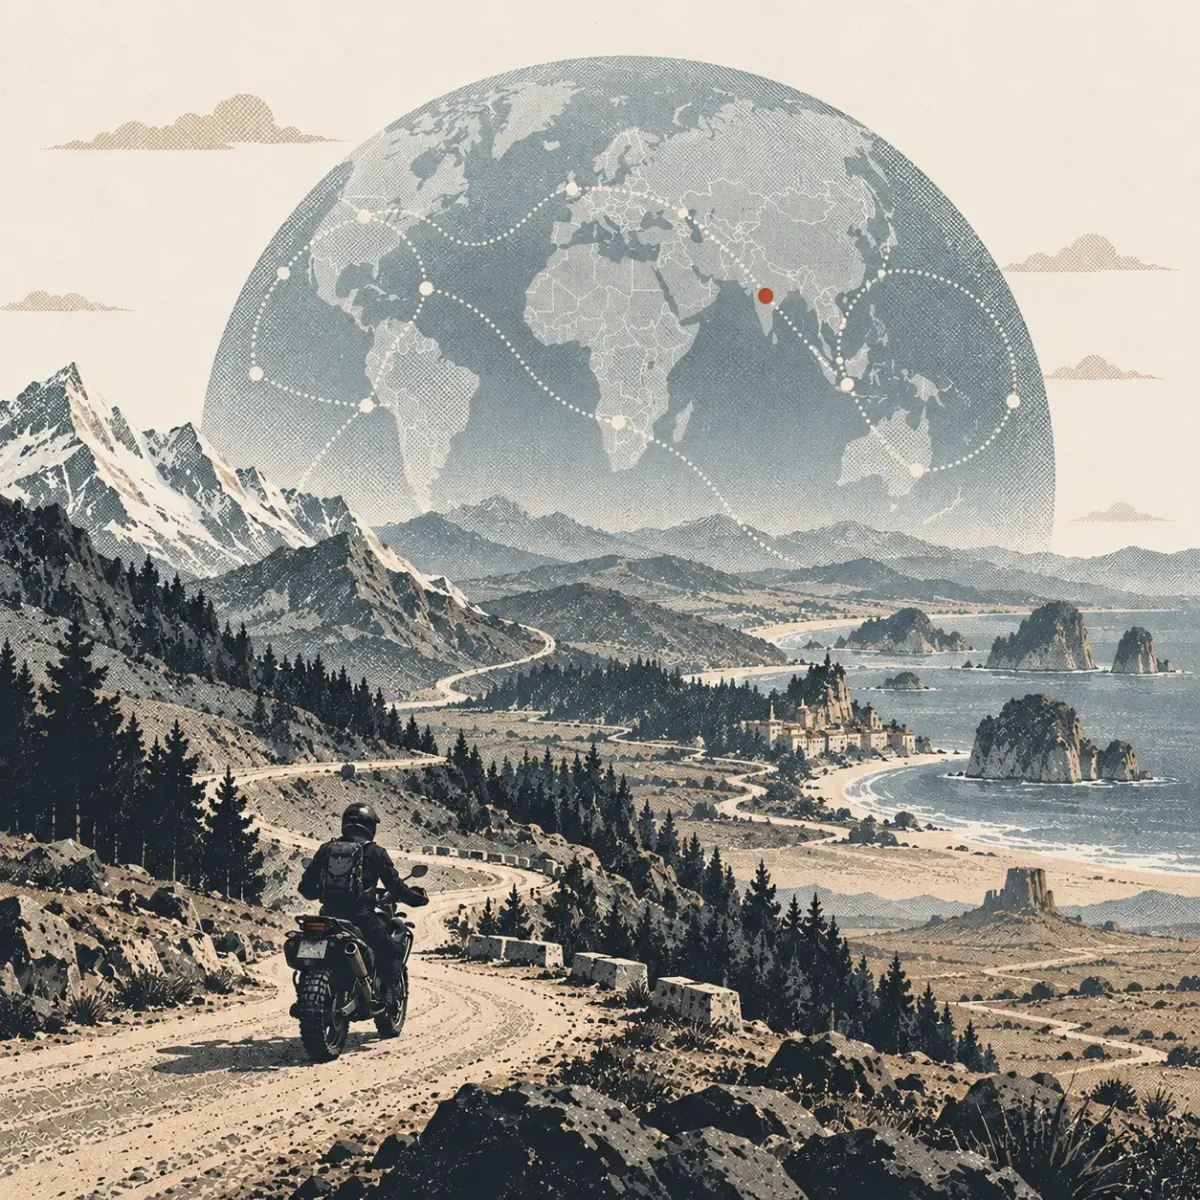
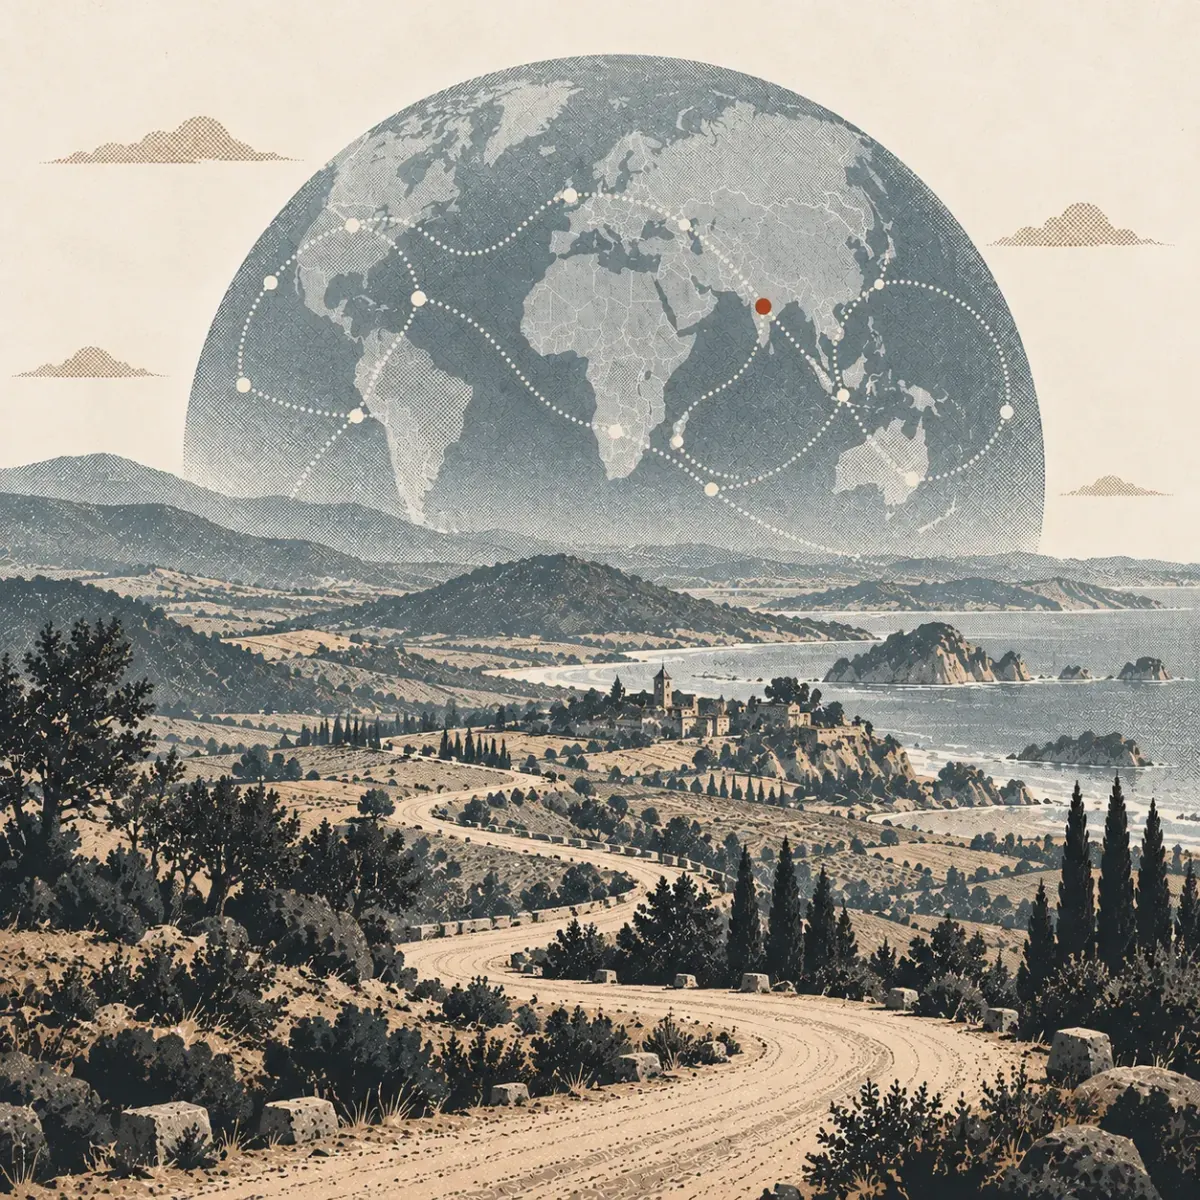
feat(mobile): new pictures for the record and setup pages; the setup picture is top-aligned
record.webp is a causeway road with the recorded route line; setup.webp is the globe over a coast road, shown from the top of its frame so the whole globe is visible. README updated.

diff --git a/apps/mobile/src/features/onboarding/OnboardingFlow.tsx b/apps/mobile/src/features/onboarding/OnboardingFlow.tsx
@@ -77,7 +77,7 @@ export function OnboardingFlow({ onDone, onPickCountry }: { onDone: () => void; 
     };
   }, [scrollX, width, drift, pages]);
   const frame = { position: 'absolute', top: 0, left: 0, width, overflow: 'hidden', borderRadius: radius.card, backgroundColor: c.card } as const;
-  /** A picture a little wider than its frame, so the drift never shows an edge. */
+  /** A picture a little wider than its frame, so the drift never shows an edge. It starts at the frame's top edge; anything taller than the frame is cut off at the bottom. */
   const picture = (source: ImageSourcePropType, page: number, key: string, height: number) => (
     <Animated.Image key={key} source={source} resizeMode="cover" accessibilityIgnoresInvertColors
       style={{ position: 'absolute', top: 0, left: -width * drift, width: width * (1 + 2 * drift), height, opacity: motion?.pages[page]?.picture ?? 1, transform: [{ translateX: motion?.pages[page]?.shift ?? 0 }] }} />
@@ -100,7 +100,8 @@ export function OnboardingFlow({ onDone, onPickCountry }: { onDone: () => void; 
               {SLIDES.map((s, i) => picture(s.art, i, s.key, tall))}
             </Animated.View>
             <Animated.View style={[frame, { height: short, opacity: motion?.shortFrame ?? 0 }]}>
-              {picture(SETUP_ART, SLIDES.length, 'setup', short)}
+              {/* The setup picture is square and its frame is short: keep it whole and top-aligned, so the globe at the top is what shows. */}
+              {picture(SETUP_ART, SLIDES.length, 'setup', Math.max(short, width * (1 + 2 * drift)))}
             </Animated.View>
           </View>
         ) : null}

diff --git a/apps/mobile/assets/onboarding/README.md b/apps/mobile/assets/onboarding/README.md
@@ -4,7 +4,7 @@ Five halftone illustrations, one per page of the welcome flow. Replace any of th
 
 **Files:** `welcome.webp`, `record.webp`, `trails.webp`, `safety.webp`, `setup.webp` in this folder (named in `src/features/onboarding/slides.ts`).
 **Size:** 1200 x 1200 px, square, WebP (quality about 78), under 400 KB each. PNG is much too heavy for this texture (1 to 3 MB).
-**Shown:** cropped to fill a rounded card about 350 x 420 points, so the subject must sit in the middle 70 percent; sky and ground run off the edges.
+**Shown:** cropped to fill a rounded card about 350 x 420 points, so the subject must sit in the middle 70 percent; sky and ground run off the edges. The setup picture is shown top-aligned in a shorter frame (the globe must be in its top half); the rest is cut off below.
 
 ## Style (match `assets/rider-on-ridge.jpg`)
 
@@ -17,10 +17,10 @@ faces, no gradients, no photo realism. One rider (black full-face helmet, dark j
 | File | Page | Place | Camera | Light | Rider | Red accent |
 |---|---|---|---|---|---|---|
 | `welcome` | Every ride, remembered. | Alpine ridge | Side, mid-height | Dawn, cream sky | Medium, left | Jacket and sun ring |
-| `record` | Tap Ride. We do the rest. | Farmland and a river | Straight down from above | Midday, flat | Tiny | The recorded route line |
+| `record` | Tap Ride. We do the rest. | Causeway road across a lagoon | High, from the side | Day, cream sky | Small, right of centre | The recorded route line along the road |
 | `trails` | Know before you go. | Pine forest, stream crossing | Eye level, no horizon | Misty morning | Medium, centre | Tag on a trail post |
 | `safety` | Someone always knows. | Dirt road above a lake | High, looking down the road | Day, cream sky | A group: two ride on, two help a rider | Red sonar rings on the rider being helped |
-| `setup` | Set up in a few taps. | Coast road, with the world behind | Over the rider's shoulder | Day, cream sky | Medium, lower left | A red dot on the home country |
+| `setup` | Set up in a few taps. | Coast road, with the world behind | High, no rider | Day, cream sky | None | A red dot on the home country |
 
 ## Making a new one (ChatGPT image generation)
 
